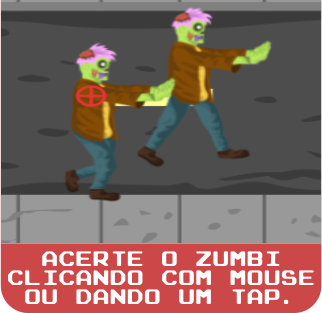
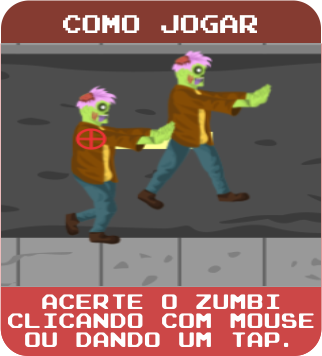
Forma de perde visivel ao usuario, correcao do bug no how to play

diff --git a/phaser/zombie_attack/js/Game.js b/phaser/zombie_attack/js/Game.js
@@ -7,6 +7,7 @@ var Game = function(game){
     this.score;
     this.scoreText;
     this.roundText;
+    this.amountPeopleText;
     this.groupZombies;
     this.groupPeople;
     this.amountPeople;
@@ -15,6 +16,7 @@ var Game = function(game){
     this.amountAliveZombies;
     this.target;
     this.targetRadius = 10;
+    this.spriteAmountPeople;
 };
 
 
@@ -37,8 +39,9 @@ Game.prototype.create = function ()
 	this.soundGame = this.game.add.audio('audioBackGroundGame',1,true);
 	this.soundGame.play();
 	this.spriteCenario = this.game.add.sprite(0, 0,'cenario');
-	this.spriteRound = this.game.add.sprite(100,0,'score');
-	this.spriteRound = this.game.add.sprite(500,0,'round');
+	this.spriteScore = this.game.add.sprite(25,0,'score');
+	this.spriteRound = this.game.add.sprite(625,0,'round');
+	this.spriteAmountPeople = this.game.add.sprite(325,0,'amountPeople');
 	this.target = this.game.add.sprite(this.game.input.x-this.targetRadius,this.game.input.y-this.targetRadius,'target');
 	this.target.z = 1;
 	this.game.time.events.repeat(Phaser.Timer.SECOND * 5, 5, this.initPeople, this);
@@ -52,10 +55,12 @@ Game.prototype.create = function ()
 	
 	//Fonte
 	this.stage = 1;
-	this.scoreText = game.add.text(224, 28 , this.score,{ font: "25px arcade_normalregular", fill: "#ffffff", align: "right" });
+	this.scoreText = game.add.text(151, 28 , this.score,{ font: "25px arcade_normalregular", fill: "#ffffff", align: "right" });
 	this.scoreText.setText(0);
-	this.roundText = game.add.text(625,28,this.stage,{ font: "25px arcade_normalregular", fill: "#ffffff", align: "right" });
+	this.roundText = game.add.text(751,28,this.stage,{ font: "25px arcade_normalregular", fill: "#ffffff", align: "right" });
 	this.roundText.setText(0);
+	this.amountPeopleText = game.add.text(400,17,this.amountPeopleMethod,{ font: "25px arcade_normalregular", fill: "#ffffff", align: "right" });
+	this.amountPeopleText.setText(0);
 	
 	this.Stage();
 	
@@ -68,10 +73,11 @@ Game.prototype.update = function ()
 	this.groupGame.sort('y', Phaser.Group.SORT_ASCENDING);
 	this.VerifyCollision();
 	this.initRound();
-	if(this.stage > 5)
-	{
-		this.ZombieFollowPerson();
-	}
+	//Precisa ser melhorado
+//	if(this.stage > 5)
+//	{
+//		this.ZombieFollowPerson();
+//	}
 	this.boundWorld(this.groupGame);
 	this.gameOver(this.amountPeople);
 	this.target.x = this.game.input.x-this.targetRadius;
@@ -84,15 +90,15 @@ Game.prototype.punctuate = function (points) {
     this.scoreText.setText(this.score);
     if(this.score > 9)
     {
-    	this.scoreText.x = 200;
+    	this.scoreText.x = 127;
     }
     else if(this.score > 99)
     {
-    	this.scoreText.x = 176;
+    	this.scoreText.x = 103;
     }
     else if(this.score > 999)
     {
-    	this.scoreText.x = 152;
+    	this.scoreText.x = 89;
     }
 };
 
@@ -100,11 +106,23 @@ Game.prototype.Stage = function () {
     this.roundText.setText(this.stage);
     if(this.stage > 9)
     {
-    	this.roundText.x = 601;
+    	this.roundText.x = 727;
     }
     else if(this.stage > 99)
     {
-    	this.roundText.x = 477;
+    	this.roundText.x = 703;
+    }
+};
+
+Game.prototype.amountPeopleMethod = function (amountPeople) {
+    this.amountPeopleText.setText(this.amountPeople);
+    if(this.amountPeople > 9)
+    {
+    	this.amountPeopleText.x = 424;
+    }
+    else if(this.amountPeople > 9)
+    {
+    	this.amountPeopleText.x = 448;
     }
 };
 
@@ -139,6 +157,7 @@ Game.prototype.initPeople = function()
 	this.groupGame.add(person.spritePerson);
 	this.amountPeople +=1;
 	this.createGame = false;
+	this.amountPeopleMethod(this.amountPeople);
 };
 
 
@@ -277,7 +296,3 @@ Game.prototype.distanceBetweenBody = function(source,target)
 	return Math.sqrt(this._dx * this._dx + this._dy * this._dy);
 };
 
-Game.prototype.gameOverView = function()
-{
-	console.log("game over")
-};

diff --git a/phaser/zombie_attack/Config/Config.js b/phaser/zombie_attack/Config/Config.js
@@ -1,0 +1,83 @@
+var Config = {
+	global: {
+		animationVelocity: 8,
+		isMobile: navigator.userAgent.match(/Android/i)
+					|| navigator.userAgent.match(/webOS/i)
+					|| navigator.userAgent.match(/iPhone/i)
+					|| navigator.userAgent.match(/iPad/i)
+					|| navigator.userAgent.match(/iPod/i)
+					|| navigator.userAgent.match(/BlackBerry/i)
+					|| navigator.userAgent.match(/Windows Phone/i),
+		screen: {
+			width: 800,
+			height: 600,
+			resize: function (game) {
+				"use strict";
+				if (navigator.userAgent.match(/Android/i)
+						|| navigator.userAgent.match(/webOS/i)
+						|| navigator.userAgent.match(/iPhone/i)
+						|| navigator.userAgent.match(/iPad/i)
+						|| navigator.userAgent.match(/iPod/i)
+						|| navigator.userAgent.match(/BlackBerry/i)
+						|| navigator.userAgent.match(/Windows Phone/i)) {
+					game.scale.setExactFit();
+					game.scale.refresh();
+					document.getElementById('everything').style.width = '100%';
+				}
+			}
+		},
+		key: {
+			nextScreen: Phaser.Keyboard.ENTER,
+			annoying: [Phaser.Keyboard.SPACEBAR, Phaser.Keyboard.DOWN]
+		}
+	}
+};
+
+Config.audio = {
+		dir: {
+			music: {
+				backgroundGame: 'assets/audios/hyrulecastle.mp3',
+				slap: 'assets/audios/slap-soundmaster13-49669815.mp3',
+				zombieDead: 'assets/audios/ugh.mp3'
+			}
+		}
+};
+
+Config.ludusSplash = {
+		dir: 'assets/screenshots/SplashTeam_800-600.png',
+		x: 0,
+		y: 0,
+		dim: 0,
+		time: {
+			dim: 2000,
+			nextState: 4000
+	}
+};
+
+//SponsorSplash
+Config.sponsorSplash = {
+	dir: 'assets/images/SponsorSplash_960-600.png',
+	x: 0,
+	y: 0,
+	dim: 0,
+	time: {
+		dim: 2000,
+		nextState: 4000
+	}
+};
+
+Config.gameSplash = {
+		dir: {
+			background: 'assets/images/GameSplash_960-600.png',
+			progressBar: 'assets/images/ProgressBar_960-30.png'
+		},
+		progressBar: {
+			x: 0,
+			y: 560
+		},
+		x: 0,
+		y: 0,
+		time: {
+			nextState: 3000
+	}
+};

diff --git a/phaser/zombie_attack/js/HowToPlay.js b/phaser/zombie_attack/js/HowToPlay.js
@@ -13,8 +13,8 @@ HowToPlay.prototype.create = function()
 {
 	this.countFrames = 0;
 	this.background = this.game.add.sprite(0, 0,'screenBlack');
-	this.spriteHowtoPlay = this.game.add.sprite(300,100,'howTo');
-	this.spriteHowToPlayScene = this.game.add.sprite(300,143,'htp1');
+	//this.spriteHowtoPlay = this.game.add.sprite(300,100,'howTo');
+	this.spriteHowToPlayScene = this.game.add.sprite(300,100,'htp1');
 	
 	this.btnProximo = game.add.button(545,460, 'buttonsNext',
     	    function(){ this.ProximoFrame(); }, this);
@@ -45,9 +45,13 @@ HowToPlay.prototype.ProximoFrame = function()
 	this.countFrames +=1;
 	if (this.countFrames == 1)
 	{
-		this.spriteHowToPlayScene = this.game.add.sprite(300,143,'htp2');
+		this.spriteHowToPlayScene = this.game.add.sprite(300,100,'htp2');
 	}
-	else if (this.countFrames > 1)
+	else if (this.countFrames == 2)
+	{
+		this.spriteHowToPlayScene = this.game.add.sprite(300,100,'htp3');
+	}
+	else if (this.countFrames == 3)
 	{
 		this.game.state.start('menu', Menu);
 	}

diff --git a/phaser/zombie_attack/index.html b/phaser/zombie_attack/index.html
@@ -85,7 +85,7 @@
 							
 							game.load.spritesheet('zombieBitePerson',spriteSheetsImageBitePerson,100,168,4);
 							
-							game.load.image('cenarioBlack', cenarioBlack);
+							
 							
 							game.load.image('target', spriteTarget);
 							game.load.image('score', spriteScore);
@@ -106,6 +106,8 @@
 							game.load.image('howTo','assets/screenshots/HowToPlay.png');
 							game.load.image('htp1','assets/htp1.png');
 							game.load.image('htp2','assets/htp2.png');
+							game.load.image('htp3','assets/htp3.png');
+							game.load.image('amountPeople', 'assets/amountPeople.png');
 		
 							splashScene = new Splash(game);
 							splashScene.preload();

diff --git a/phaser/zombie_attack/js/Person.js b/phaser/zombie_attack/js/Person.js
@@ -101,6 +101,7 @@ Person.prototype.killPerson = function(person,zombie)
     person.body.velocity.x  = 0;
     person.body.velocity.y  = 0;
     this.classGame.amountPeople -= 1;
+    this.classGame.amountPeopleMethod(this.classGame.amountPeople);
 	this.alive = false;
 	person.loadTexture('zombieBitePerson');
 	person.animations.add('zBitePerson');
